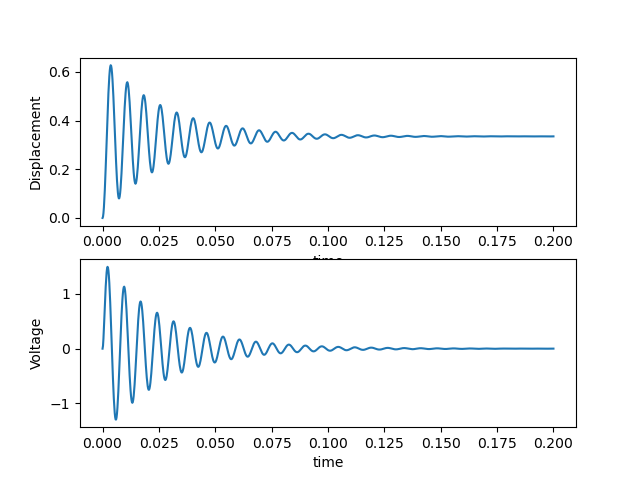
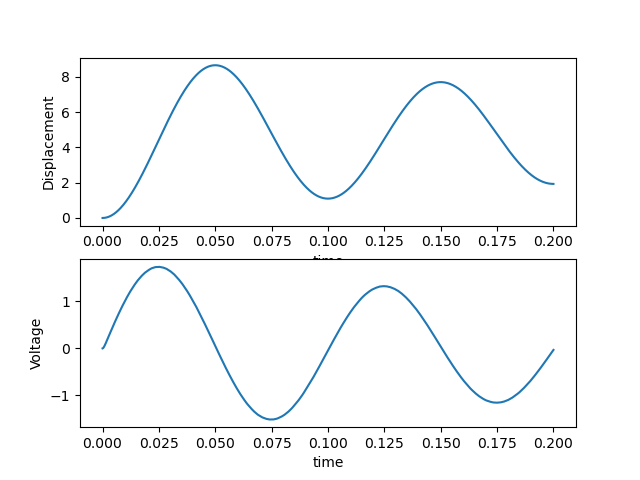
Update A1 when voltage is called

diff --git a/cantilever_piezo_voltage.py b/cantilever_piezo_voltage.py
@@ -129,6 +129,7 @@ class piezo_film():
         return [ eta1dot, eta1ddot, v2dot ]
 
     def voltage(self):
+        get_A1()
         vphi = self.vtheta*(self.d_phi(self.Lp2) 
                             - self.d_phi(self.Lp1))
         para = [ self.Cp, self.R, vphi, self.zeta, self.alpha**2*math.sqrt(self.EI1/self.m1) ]
@@ -144,7 +145,6 @@ class piezo_film():
     
     def tip_mass(self, mass: float):
         self.M1 = mass
-        self.get_A1()
         
     def set_force(self, force_func):
         self.force = force_func
@@ -159,7 +159,7 @@ class piezo_film():
         self.vtheta = coupling
         
 model = piezo_film()
-#model.tip_mass(11 * 1e-6)
+model.tip_mass(11 * 1e-6)
 #model.set_force(lambda t: 0.08*24)     # Modify the force function to have different voltage output
 #model.time_span(0.2, 10000)
 
